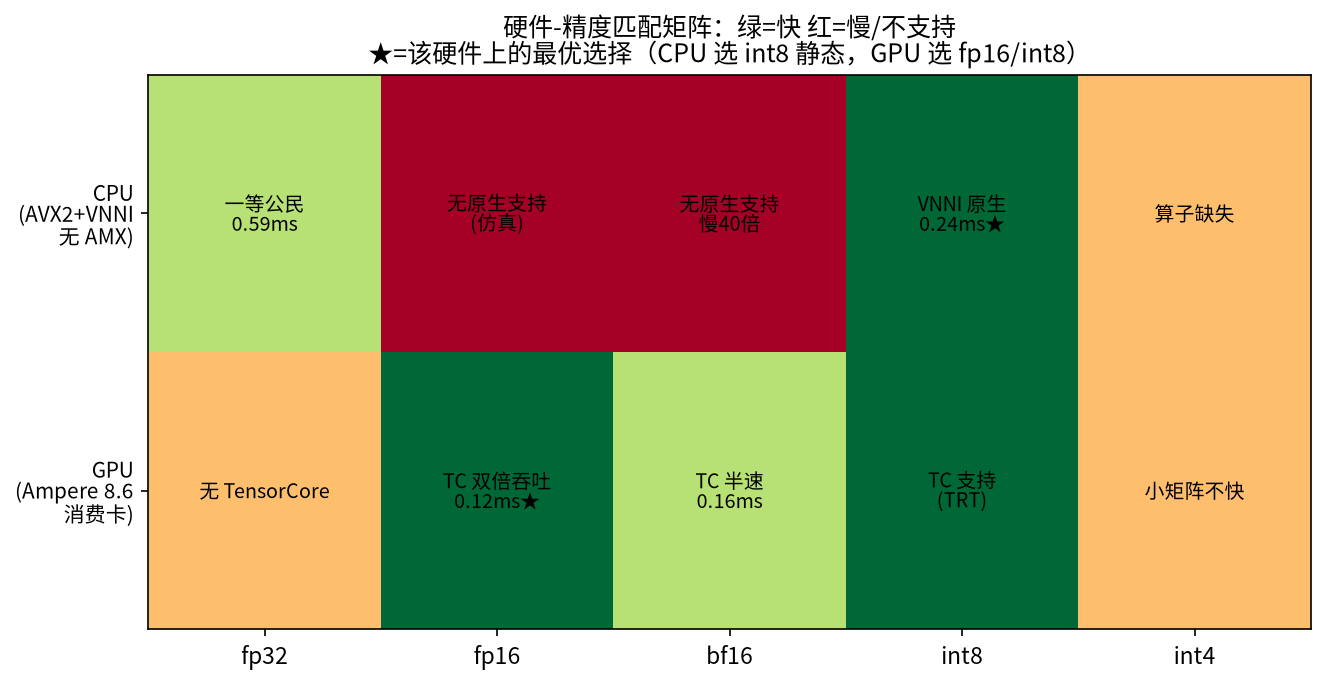
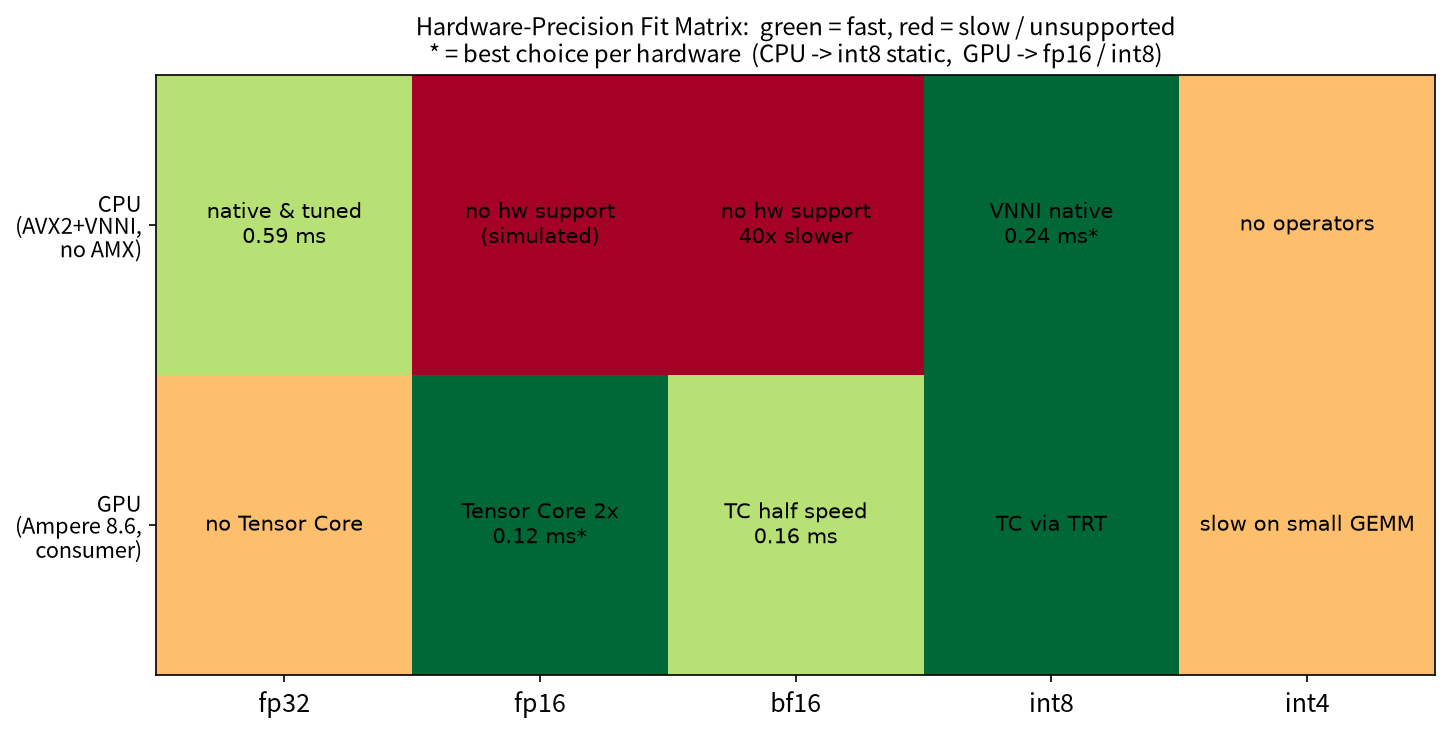
docs: 硬件-精度匹配矩阵图改为英文描述（更易通用阅读）

diff --git a/src/make_charts.py b/src/make_charts.py
@@ -188,25 +188,27 @@ def tradeoff_scatter():
     save(fig, "tradeoff_scatter.png")
 
 
-# ---------- 7. 硬件-精度匹配矩阵 ----------
+# ---------- 7. 硬件-精度匹配矩阵（英文，便于通用阅读） ----------
 def hw_precision_matrix():
-    fig, ax = plt.subplots(figsize=(10, 4.8))
-    rows = ["CPU\n(AVX2+VNNI\n无 AMX)", "GPU\n(Ampere 8.6\n消费卡)"]
+    fig, ax = plt.subplots(figsize=(11, 5.2))
+    plt.rcParams["font.family"] = "DejaVu Sans"  # 此图纯英文，用默认字体更清晰
+    rows = ["CPU\n(AVX2+VNNI,\nno AMX)", "GPU\n(Ampere 8.6,\nconsumer)"]
     cols = ["fp32", "fp16", "bf16", "int8", "int4"]
-    # 0=慢/不支持, 1=一般, 2=快, 3=最快
+    # 0=slow/unsupported, 1=fair, 2=fast, 3=fastest
     data = np.array([
         [2, 0, 0, 3, 1],   # CPU
         [1, 3, 2, 3, 1],   # GPU
     ], dtype=float)
     im = ax.imshow(data, cmap="RdYlGn", vmin=0, vmax=3, aspect="auto")
-    notes = [["一等公民\n0.59ms", "无原生支持\n(仿真)", "无原生支持\n慢40倍", "VNNI 原生\n0.24ms★", "算子缺失"],
-             ["无 TensorCore", "TC 双倍吞吐\n0.12ms★", "TC 半速\n0.16ms", "TC 支持\n(TRT)", "小矩阵不快"]]
+    notes = [["native & tuned\n0.59 ms", "no hw support\n(simulated)", "no hw support\n40x slower", "VNNI native\n0.24 ms*", "no operators"],
+             ["no Tensor Core", "Tensor Core 2x\n0.12 ms*", "TC half speed\n0.16 ms", "TC via TRT", "slow on small GEMM"]]
     for i in range(2):
         for j in range(5):
-            ax.text(j, i, notes[i][j], ha="center", va="center", fontsize=9.5)
-    ax.set_xticks(range(5)); ax.set_xticklabels(cols, fontsize=11)
-    ax.set_yticks(range(2)); ax.set_yticklabels(rows, fontsize=10)
-    ax.set_title("硬件-精度匹配矩阵：绿=快 红=慢/不支持\n★=该硬件上的最优选择（CPU 选 int8 静态，GPU 选 fp16/int8）")
+            ax.text(j, i, notes[i][j], ha="center", va="center", fontsize=10)
+    ax.set_xticks(range(5)); ax.set_xticklabels(cols, fontsize=12)
+    ax.set_yticks(range(2)); ax.set_yticklabels(rows, fontsize=10.5)
+    ax.set_title("Hardware-Precision Fit Matrix:  green = fast, red = slow / unsupported\n"
+                 "* = best choice per hardware  (CPU -> int8 static,  GPU -> fp16 / int8)", fontsize=11.5)
     save(fig, "hw_precision_matrix.png")
 
 

diff --git a/README.md b/README.md
@@ -3,6 +3,7 @@
 训练一个 MNIST CNN（fp32 基线），对它做 bf16 / int8 动态 / int8 静态 / int4 / 2:4 稀疏等全部主流压缩，在 CPU（i5-13490F）和 GPU（RTX 3060）上用 PyTorch / TensorRT / ONNX Runtime 三种引擎全面对比体积、速度、精度——并解释**每个数字背后的硬件原因**。
 
 ![硬件-精度匹配矩阵](assets/hw_precision_matrix.png)
+*图：Hardware-Precision Fit Matrix（图中文字为英文）——绿 = 快、红 = 慢/不支持；星号 = 该硬件上的最优选择（CPU 选 int8 静态，GPU 选 fp16/int8）*
 
 ## 学习路径（按顺序读）
 
